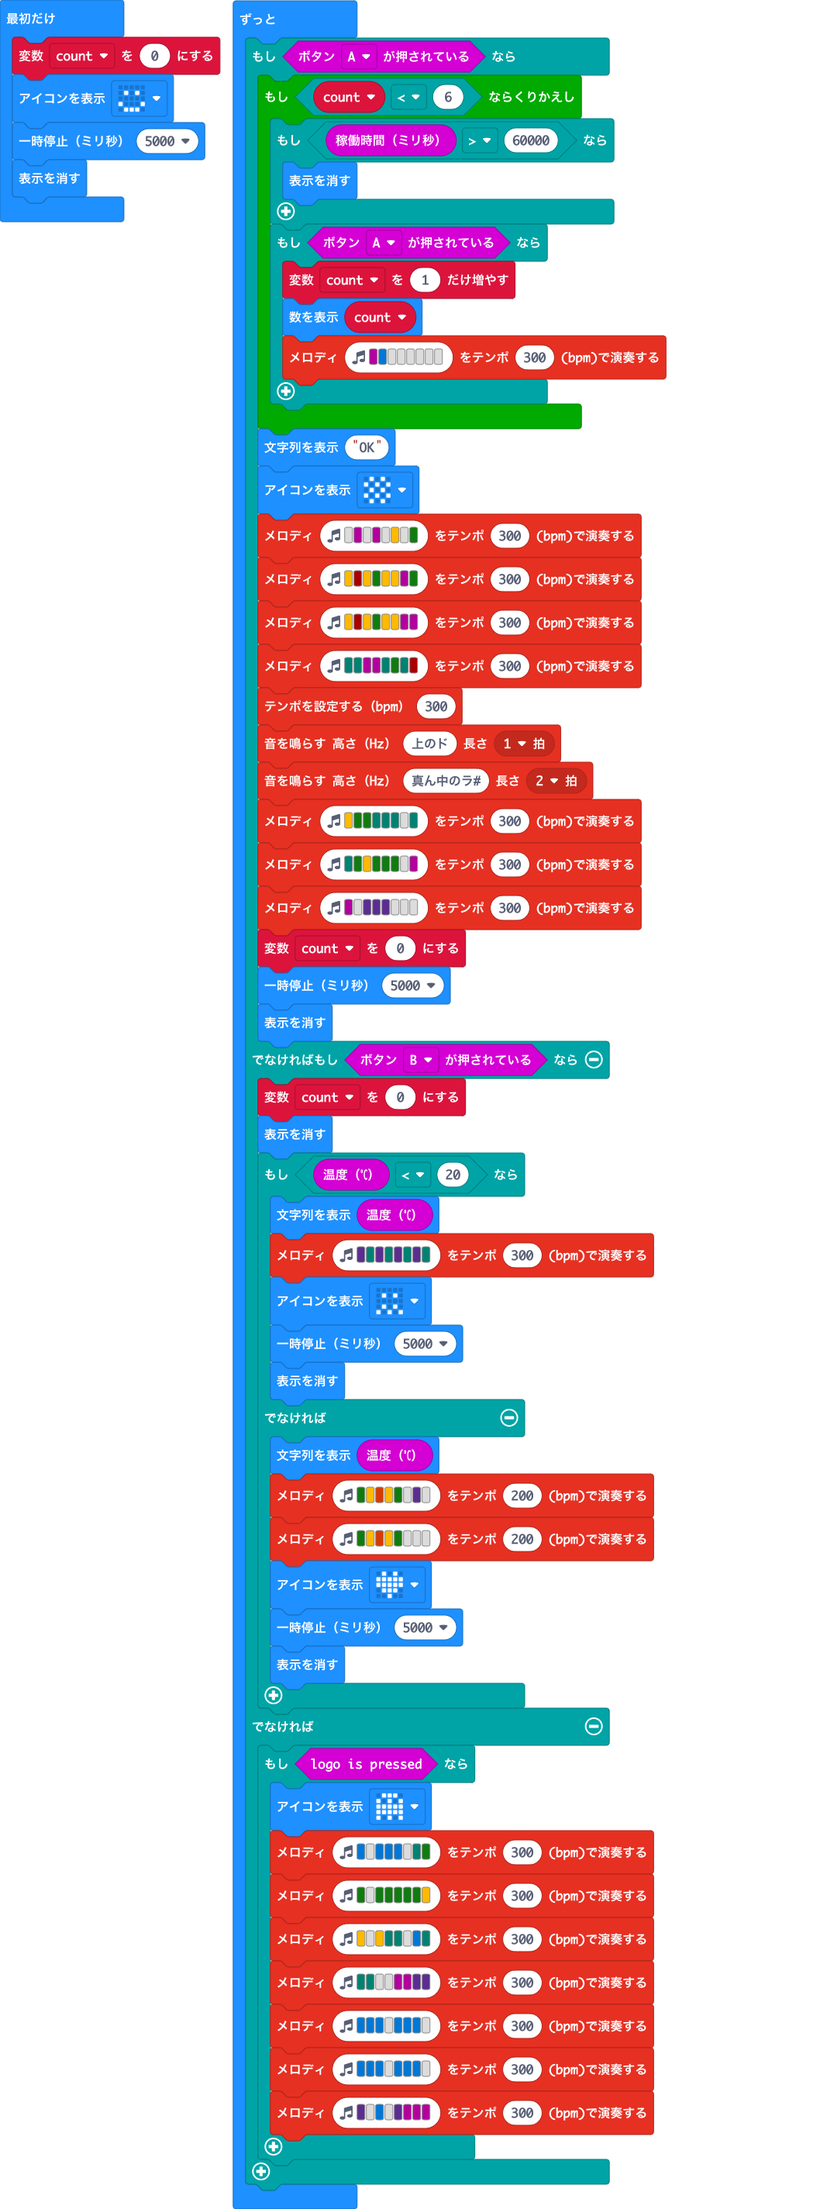
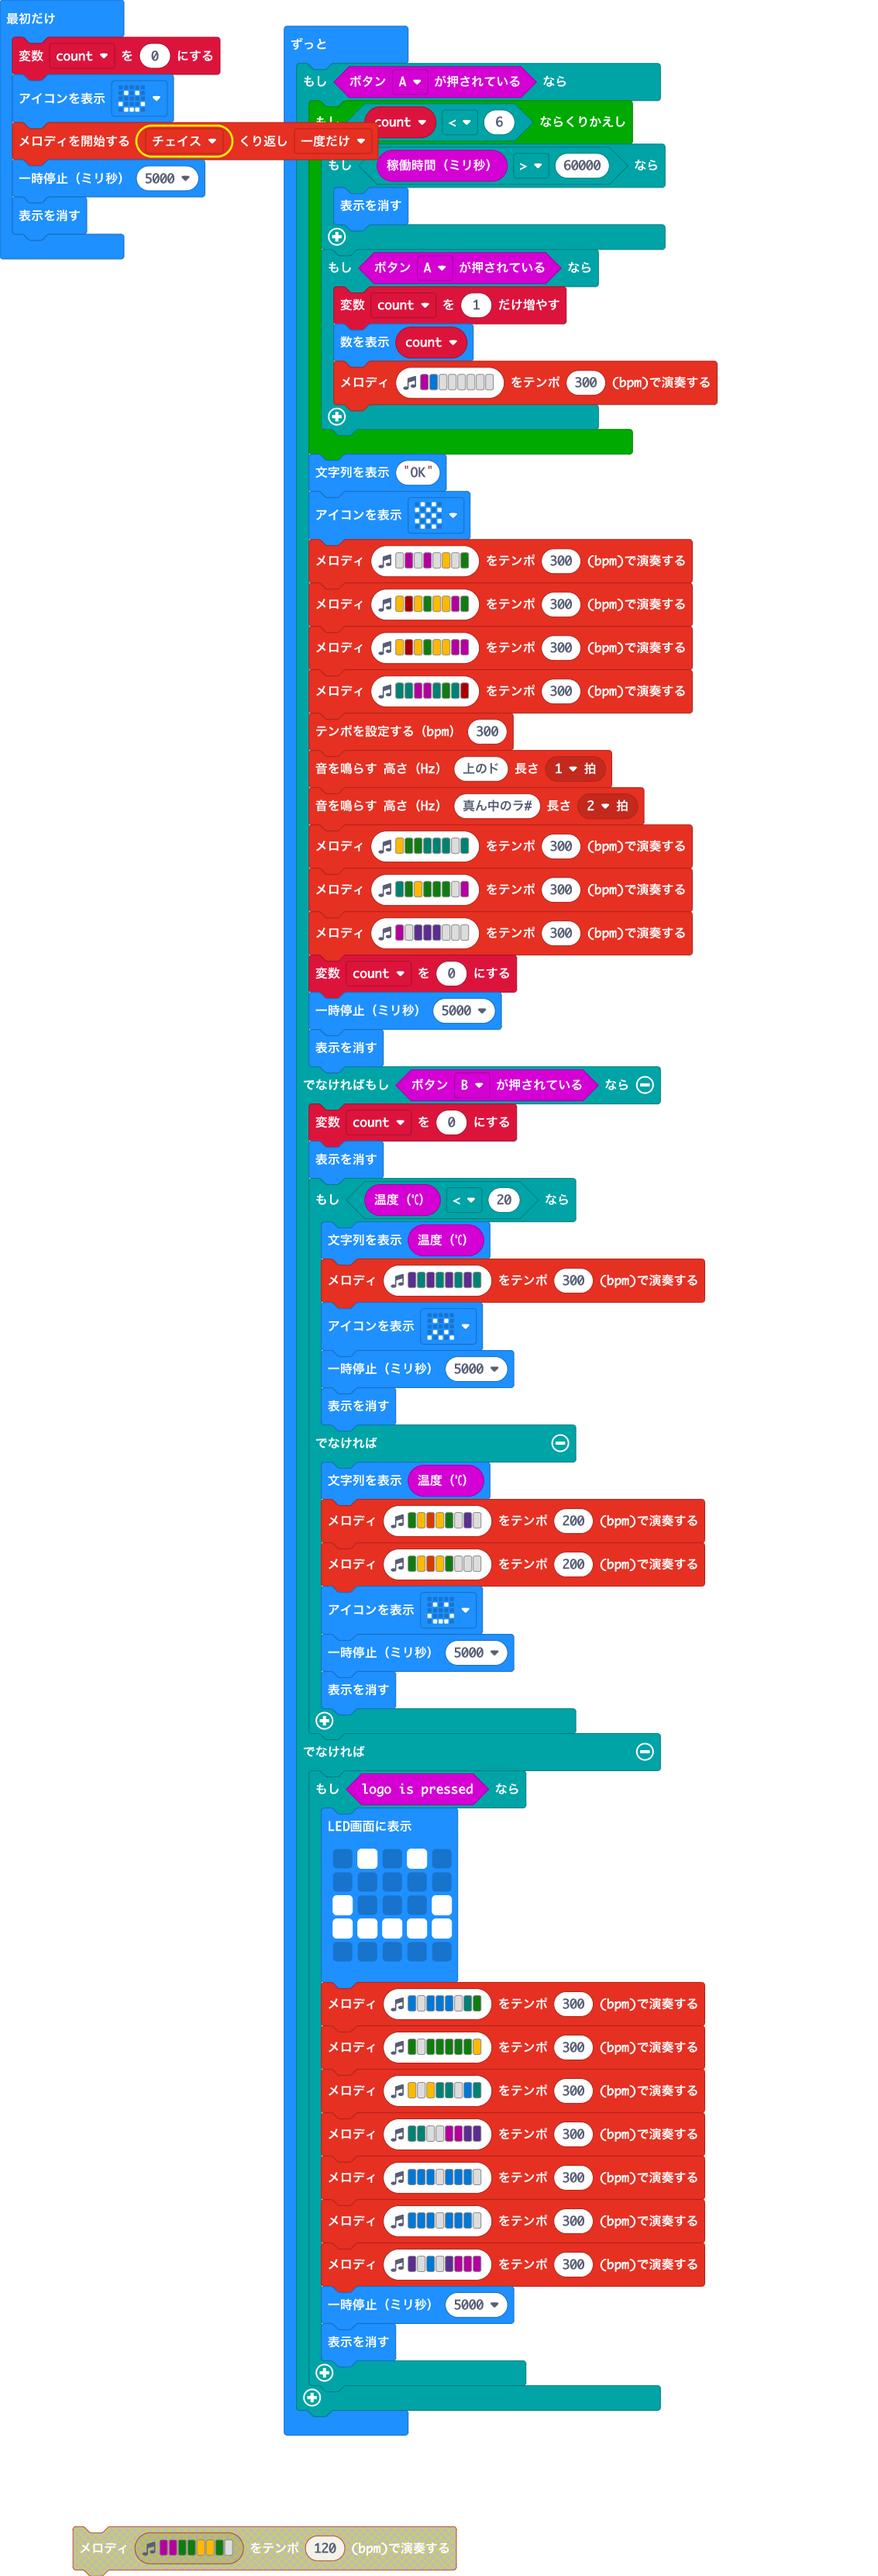
Update main.blocks, main.ts

diff --git a/main.ts b/main.ts
@@ -1,5 +1,6 @@
 let count = 0
 basic.showIcon(IconNames.Happy)
+music.startMelody(music.builtInMelody(Melodies.Chase), MelodyOptions.Once)
 basic.pause(5000)
 basic.clearScreen()
 basic.forever(function () {
@@ -42,13 +43,19 @@ basic.forever(function () {
             basic.showString("" + (input.temperature()))
             music.playMelody("G A B A G - D - ", 200)
             music.playMelody("G A B A G - - - ", 200)
-            basic.showIcon(IconNames.Heart)
+            basic.showIcon(IconNames.Happy)
             basic.pause(5000)
             basic.clearScreen()
         }
     } else {
         if (input.logoIsPressed()) {
-            basic.showIcon(IconNames.Ghost)
+            basic.showLeds(`
+                . # . # .
+                . . . . .
+                # . . . #
+                # # # # #
+                . . . . .
+                `)
             music.playMelody("E - E E E - F G ", 300)
             music.playMelody("G - G G G G G A ", 300)
             music.playMelody("A - A F F - E F ", 300)
@@ -56,6 +63,8 @@ basic.forever(function () {
             music.playMelody("E E E - E E E - ", 300)
             music.playMelody("E E E - E E E - ", 300)
             music.playMelody("D - E - D C C C ", 300)
+            basic.pause(5000)
+            basic.clearScreen()
         }
     }
 })
